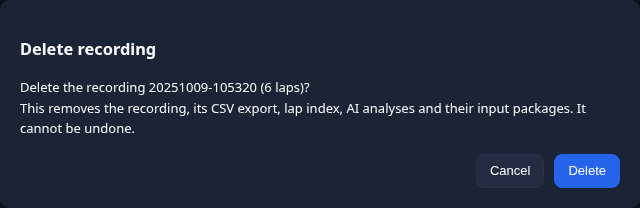
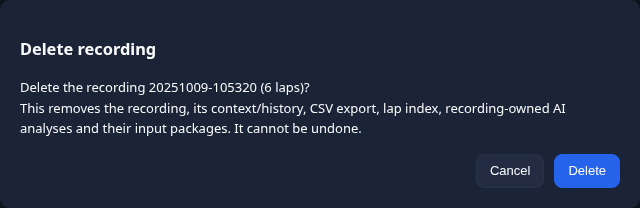
fix(telemetry): reject ambiguous facts and incomplete report bodies

Changed region(s): [[0.3125, 0.4904, 0.9375, 0.5481], [0.0312, 0.5769, 0.5625, 0.6635]]

diff --git a/src/ui/control-center.html b/src/ui/control-center.html
@@ -5610,7 +5610,7 @@ async function tmDelete() {
   if (!row || row.recording) return;
   const laps = row.laps == null ? '' : ' (' + row.laps + ' laps)';
   if (!(await confirmModal('Delete the recording ' + rec + laps + '?\n'
-      + 'This removes the recording, its CSV export, lap index, AI analyses and their input packages. It cannot be undone.',
+      + 'This removes the recording, its context/history, CSV export, lap index, recording-owned AI analyses and their input packages. It cannot be undone.',
       {title: 'Delete recording', okLabel: 'Delete'}))) return;
   if (rec !== tmState.rec) return;                 // the selection moved while the dialog was open
   const btn = $('tm-del');

diff --git a/src/scripts/ai_reports.py b/src/scripts/ai_reports.py
@@ -51,6 +51,17 @@ def _related(fact_id,lap_id,package):
     return fact_id.startswith(lap_id+'/')
 
 
+def fact_label(fact_id):
+    labels={'time_s':'Lap time (s)','gt7_time_s':'GT7 lap time (s)','relay_time_s':'Receiver lap time (s)',
+            'fuel_used_l':'Fuel used (L)','fuel_start_l':'Starting fuel (L)','fuel_end_l':'Ending fuel (L)',
+            'top_speed_kmh':'Top speed (km/h)','tyre_avg_c':'Mean tyre temperature (C)','length_m':'Lap length (m)',
+            'delta_s':'Observed time difference (s)','mean_time_s':'Mean selected lap time (s)',
+            'best_time_s':'Best selected lap time (s)','population_stddev_s':'Population standard deviation (s)',
+            'selected_gt7_total_s':'Sum of selected GT7 lap times (s)','usable_laps':'Usable lap count','excluded_laps':'Excluded lap count'}
+    short=re.sub(r'^[0-9a-f]+/session/[0-9]+/lap/[0-9]+/','',fact_id)
+    return labels.get(short,labels.get(fact_id.split('/')[-1],short.replace('/',' · ').replace('_',' ')))
+
+
 def validate(result,package):
     """Validate measurements/references; narrative interpretations remain unproven."""
     _schema(result,ai_package.RESULT_SCHEMA)
@@ -152,11 +163,14 @@ class Store:
             if checked!=run.get('report'):raise ReportError('invalid_artifact','Stored report differs from validated output')
             run.update(stale(package,self.source_factory) if check_stale and self.source_factory else dict(stale=False,reason=None))
         else:
-            run.update(stale=False,reason=None)
+            run.update(stale=False,reason=None,report=None)
             if run['state'] not in ai_jobs.TERMINAL:
                 status=ai_jobs.Runner(self.machine,self.root,self.profile).status(self.profile)
                 if not status['busy'] or not status['active'] or status['active'].get('id')!=job_id:
                     run.update(state='interrupted',progress='Process ended without a completed report; retained artifacts are incomplete')
+        if run.get('report'):
+            for item in run['report']['findings']+run['report']['exercises']:
+                for evidence in item['evidence']:evidence['label']=fact_label(evidence['fact_id'])
         return dict(run,ok=True)
     def history(self,rec=None):
         items=[]
@@ -170,6 +184,7 @@ class Store:
         return dict(ok=True,profile=self.profile,runs=items[:200])
     def export(self,job_id,kind,origin=None):
         if origin is not None:
+            if not isinstance(origin,str):raise ReportError('invalid_selection','Export links require the local Control Center origin')
             try:
                 parsed=urlparse(origin)
                 valid=(parsed.scheme=='http' and parsed.hostname in {'127.0.0.1','localhost','::1'}
@@ -226,7 +241,7 @@ def render(run,package,kind,origin=None):
                 if item.get('possible_causes'):out+=['Possible causes: '+_markdown('; '.join(item['possible_causes'])),'']
                 q=urlencode(dict({k:v for k,v in item['telemetry'].items() if v is not None},profile=run['profile']))
                 out+=['[Telemetry reference]('+linkbase+'/?'+q+'#telemetry)','', 'Validated package facts:','']
-                out += ['- '+_markdown(e['fact_id'])+': '+_markdown(e['value'])+' ('+_markdown(e['provenance'])+')' for e in item['evidence']]
+                out += ['- '+_markdown(e.get('label',fact_label(e['fact_id'])))+': '+_markdown(e['value'])+' ('+_markdown(e['provenance'])+')' for e in item['evidence']]
                 out+=['']
         out+=['## Limitations','']+['- '+_markdown(v) for v in report['limitations']]+['','## Provenance','','```json',json.dumps(provenance,indent=2,ensure_ascii=False),'```','']
         return '\n'.join(out)
@@ -241,7 +256,7 @@ def render(run,package,kind,origin=None):
             if item.get('possible_causes'):out+=['<p>Possible causes: '+esc('; '.join(item['possible_causes']))+'</p>']
             q=urlencode(dict({k:v for k,v in item['telemetry'].items() if v is not None},profile=run['profile']))
             out+=['<a href="'+esc(linkbase+'/?'+q+'#telemetry')+'">Telemetry reference</a><h4>Validated package facts</h4><ul>']
-            out+=['<li>'+esc(e['fact_id'])+': '+esc(e['value'])+' ('+esc(e['provenance'])+')</li>' for e in item['evidence']]
+            out+=['<li title="'+esc(e['fact_id'])+'">'+esc(e.get('label',fact_label(e['fact_id'])))+': '+esc(e['value'])+' ('+esc(e['provenance'])+')</li>' for e in item['evidence']]
             out+=['</ul></article>']
     out+=['<h2>Limitations</h2><ul>']+['<li>'+esc(v)+'</li>' for v in report['limitations']]+['</ul><h2>Provenance</h2><pre>'+esc(json.dumps(provenance,indent=2,ensure_ascii=False))+'</pre></body></html>']
     return '\n'.join(out)

diff --git a/tests/test_ai_reports.py b/tests/test_ai_reports.py
@@ -4,6 +4,7 @@ import copy
 import io
 import hashlib
 import json
+import shutil
 import sys
 import tempfile
 import zipfile
@@ -27,6 +28,7 @@ def result(package):
 def fail(fn,code='invalid_report'):
     try:fn()
     except r.ReportError as e:assert e.code==code,(e.code,code)
+    except Exception as e:raise AssertionError('expected semantic '+code+', got '+type(e).__name__) from e
     else:raise AssertionError('expected '+code)
 
 
@@ -58,6 +60,7 @@ def t_schema_measurement_reference_and_priorities():
             bad=copy.deepcopy(valid);bad['findings'][0][field]=value;variants.append(bad)
         for evidence in ({'fact_id':'unknown','value':1},{'fact_id':p['laps'][0]['id']+'/time_s','value':999},{'fact_id':p['laps'][0]['id']+'/time_s','value':True},{'fact_id':p['laps'][1]['id']+'/time_s','value':p['laps'][1]['metrics']['time_s']}):
             bad=copy.deepcopy(valid);bad['findings'][0]['evidence']=[evidence];variants.append(bad)
+        bad=copy.deepcopy(valid);bad['findings'][0].update(lap_id='unknown',evidence=[dict(fact_id='selection/mean_time_s',value=p['summary']['mean_time_s'])]);variants.append(bad)
         bad=copy.deepcopy(valid);bad['exercises']=bad['exercises'][:2];variants.append(bad)
         bad=copy.deepcopy(valid);bad['exercises'][1]['priority']=1;variants.append(bad)
         bad=copy.deepcopy(valid);bad['findings'][0]['measured_loss_s']=12;variants.append(bad)
@@ -80,6 +83,9 @@ def t_history_provenance_exports_and_profile_scope():
         assert found['report']['language']=='de' and found['package_fingerprint']==p['fingerprint']
         assert store.history(s.name)['runs'][0]['id']==run['id']
         other=r.Store(Path(d)/'other','other',Path(d)/'machine')
+        fail(lambda:other.get(run['id']),'not_found')
+        destination=Path(d)/'other/telemetry-analyses'/p['selection']['recording_id']/run['id']
+        shutil.copytree(run['directory'],destination)
         fail(lambda:other.get(run['id']),'not_found')
         fail(lambda:store.get('../outside'),'invalid_job')
         document=store.export(run['id'],'html',origin='http://127.0.0.1:8123')['bytes'].decode()
@@ -145,7 +151,7 @@ def t_incomplete_and_cancelled_runs_never_export_reports():
     with tempfile.TemporaryDirectory() as d:
         s,p,run,store=setup(d);directory=Path(run['directory']);meta=json.loads((directory/'run.json').read_text())
         for state in ('cancelled','failed','timed_out','awaiting_validation','running'):
-            doc=dict(meta,state=state,report=None);ai_jobs._save(directory/'run.json',doc)
+            doc=dict(meta,state=state,report=meta['report']);ai_jobs._save(directory/'run.json',doc)
             found=store.get(run['id']);assert found['report'] is None
             if state=='running':assert found['state']=='interrupted'
             fail(lambda:store.export(run['id'],'html'),'incomplete_report')

diff --git a/src/scripts/ai_jobs.py b/src/scripts/ai_jobs.py
@@ -457,13 +457,16 @@ class Runner:
                     if tree:tree.close()
                     for reader in readers:reader.join(2)
         except KeyboardInterrupt:
+            state['report']=None
             state['error']={'code':'cancelled','message':'Analysis interrupted; consumed subscription quota is not recoverable'}
             self._update(directory,state,'cancelled',state['error']['message'])
         except (JobError,ai_agents.AgentError) as e:
+            state['report']=None
             state['error']={'code':e.code,'message':str(e)}
             phase=e.code if e.code in ('cancelled','timed_out') else 'failed'
             self._update(directory,state,phase,str(e))
         except Exception as e:
+            state['report']=None
             (directory/'runner-error.log').write_text(type(e).__name__+': '+str(e),encoding='utf-8')
             state['error']={'code':'execution_failed','message':'Analysis execution failed; inspect saved local diagnostics'}
             self._update(directory,state,'failed',state['error']['message'])

diff --git a/tests/test_ai_jobs.py b/tests/test_ai_jobs.py
@@ -256,6 +256,18 @@ def t_windows_tree_waits_for_descendants_before_releasing_handle():
     assert tree.handle is None and calls[-1]=='close'
 
 
+def t_persistence_failure_never_returns_a_completed_report():
+    with tempfile.TemporaryDirectory() as d:
+        pkg=prepared(d);runner=j.Runner(Path(d)/'machine',Path(d)/'profile','p')
+        original=runner._update
+        def update(directory,state,phase,progress):
+            original(directory,state,phase,progress)
+            if phase=='completed':raise OSError('controlled persistence failure')
+        runner._update=update
+        result=runner.run(package(),pkg,FakeAdapter(d),validate=lambda result,_p:{'validated':result})
+        assert result['state']=='failed' and result['report'] is None,result
+
+
 def t_tree_cleanup_is_not_repeated_after_validation():
     with tempfile.TemporaryDirectory() as d:
         pkg=prepared(d);runner=j.Runner(Path(d)/'machine',Path(d)/'profile','p')

diff --git a/src/docs/design/ai-analysis-reports.md b/src/docs/design/ai-analysis-reports.md
@@ -61,3 +61,9 @@ Self-review reproduced conflicting factual snapshots sharing a stable lap ID
 now refuses that ambiguity before inference, and validation independently refuses
 it as an invalid report. Identical copies retain the selected recording as their
 canonical telemetry view. Both failure paths have behavioral regression tests.
+
+
+A controlled persistence failure after validation exposed a completed report body
+on a failed run. Failure handlers now clear normal report bodies, and history
+independently hides any retained body unless the outcome is completed. Raw output
+and immutable inputs remain available for diagnosis/manual retry.
